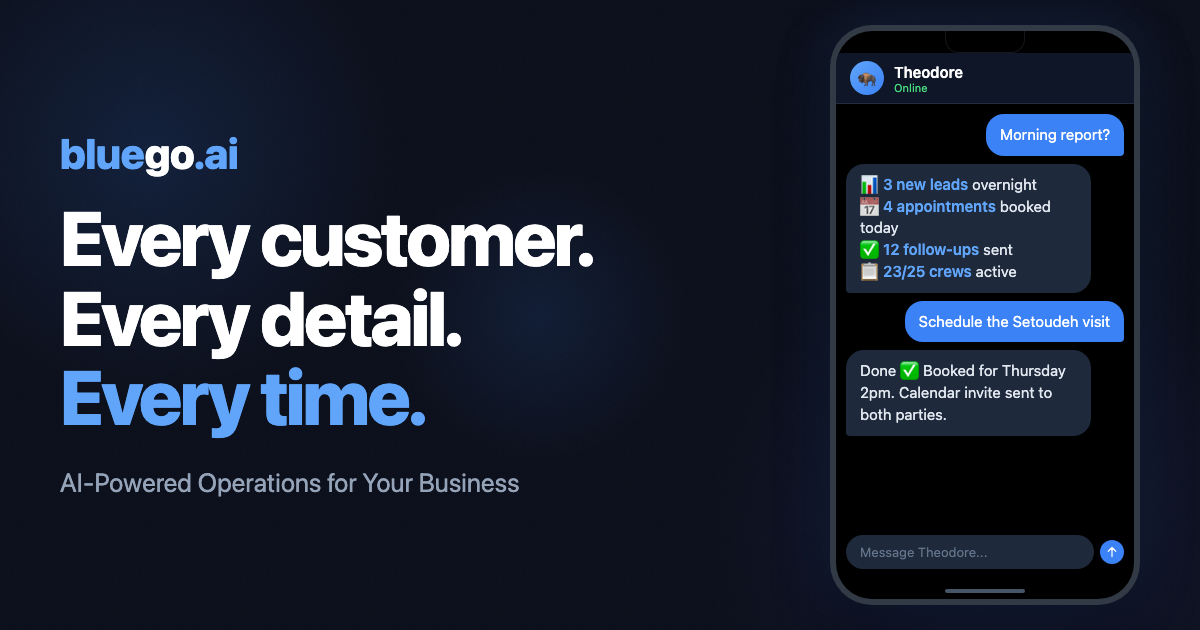
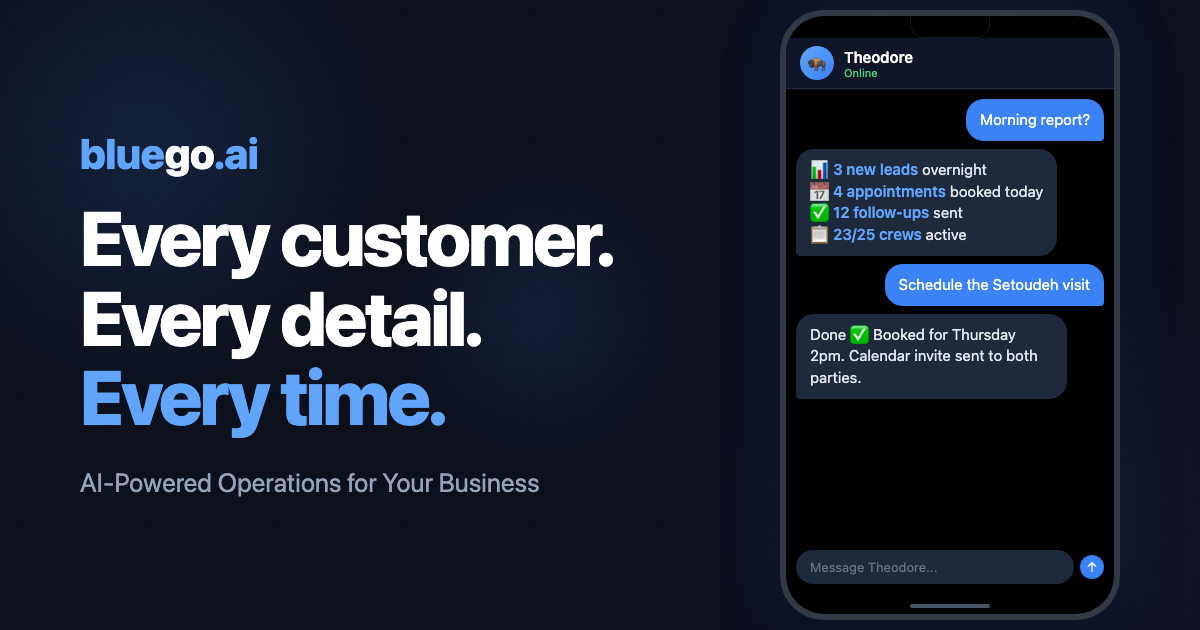
OG: max phone size + side margins back

diff --git a/og-generator.html b/og-generator.html
@@ -49,7 +49,7 @@
     display: flex;
     width: 100%;
     height: 100%;
-    padding: 30px 60px;
+    padding: 30px 80px;
     align-items: center;
     justify-content: space-between;
   }
@@ -98,9 +98,9 @@
   }
 
   .phone {
-    width: 310px;
-    height: 580px;
-    border-radius: 42px;
+    width: 340px;
+    height: 610px;
+    border-radius: 44px;
     border: 6px solid rgba(100,116,139,0.5);
     background: #000;
     overflow: hidden;
